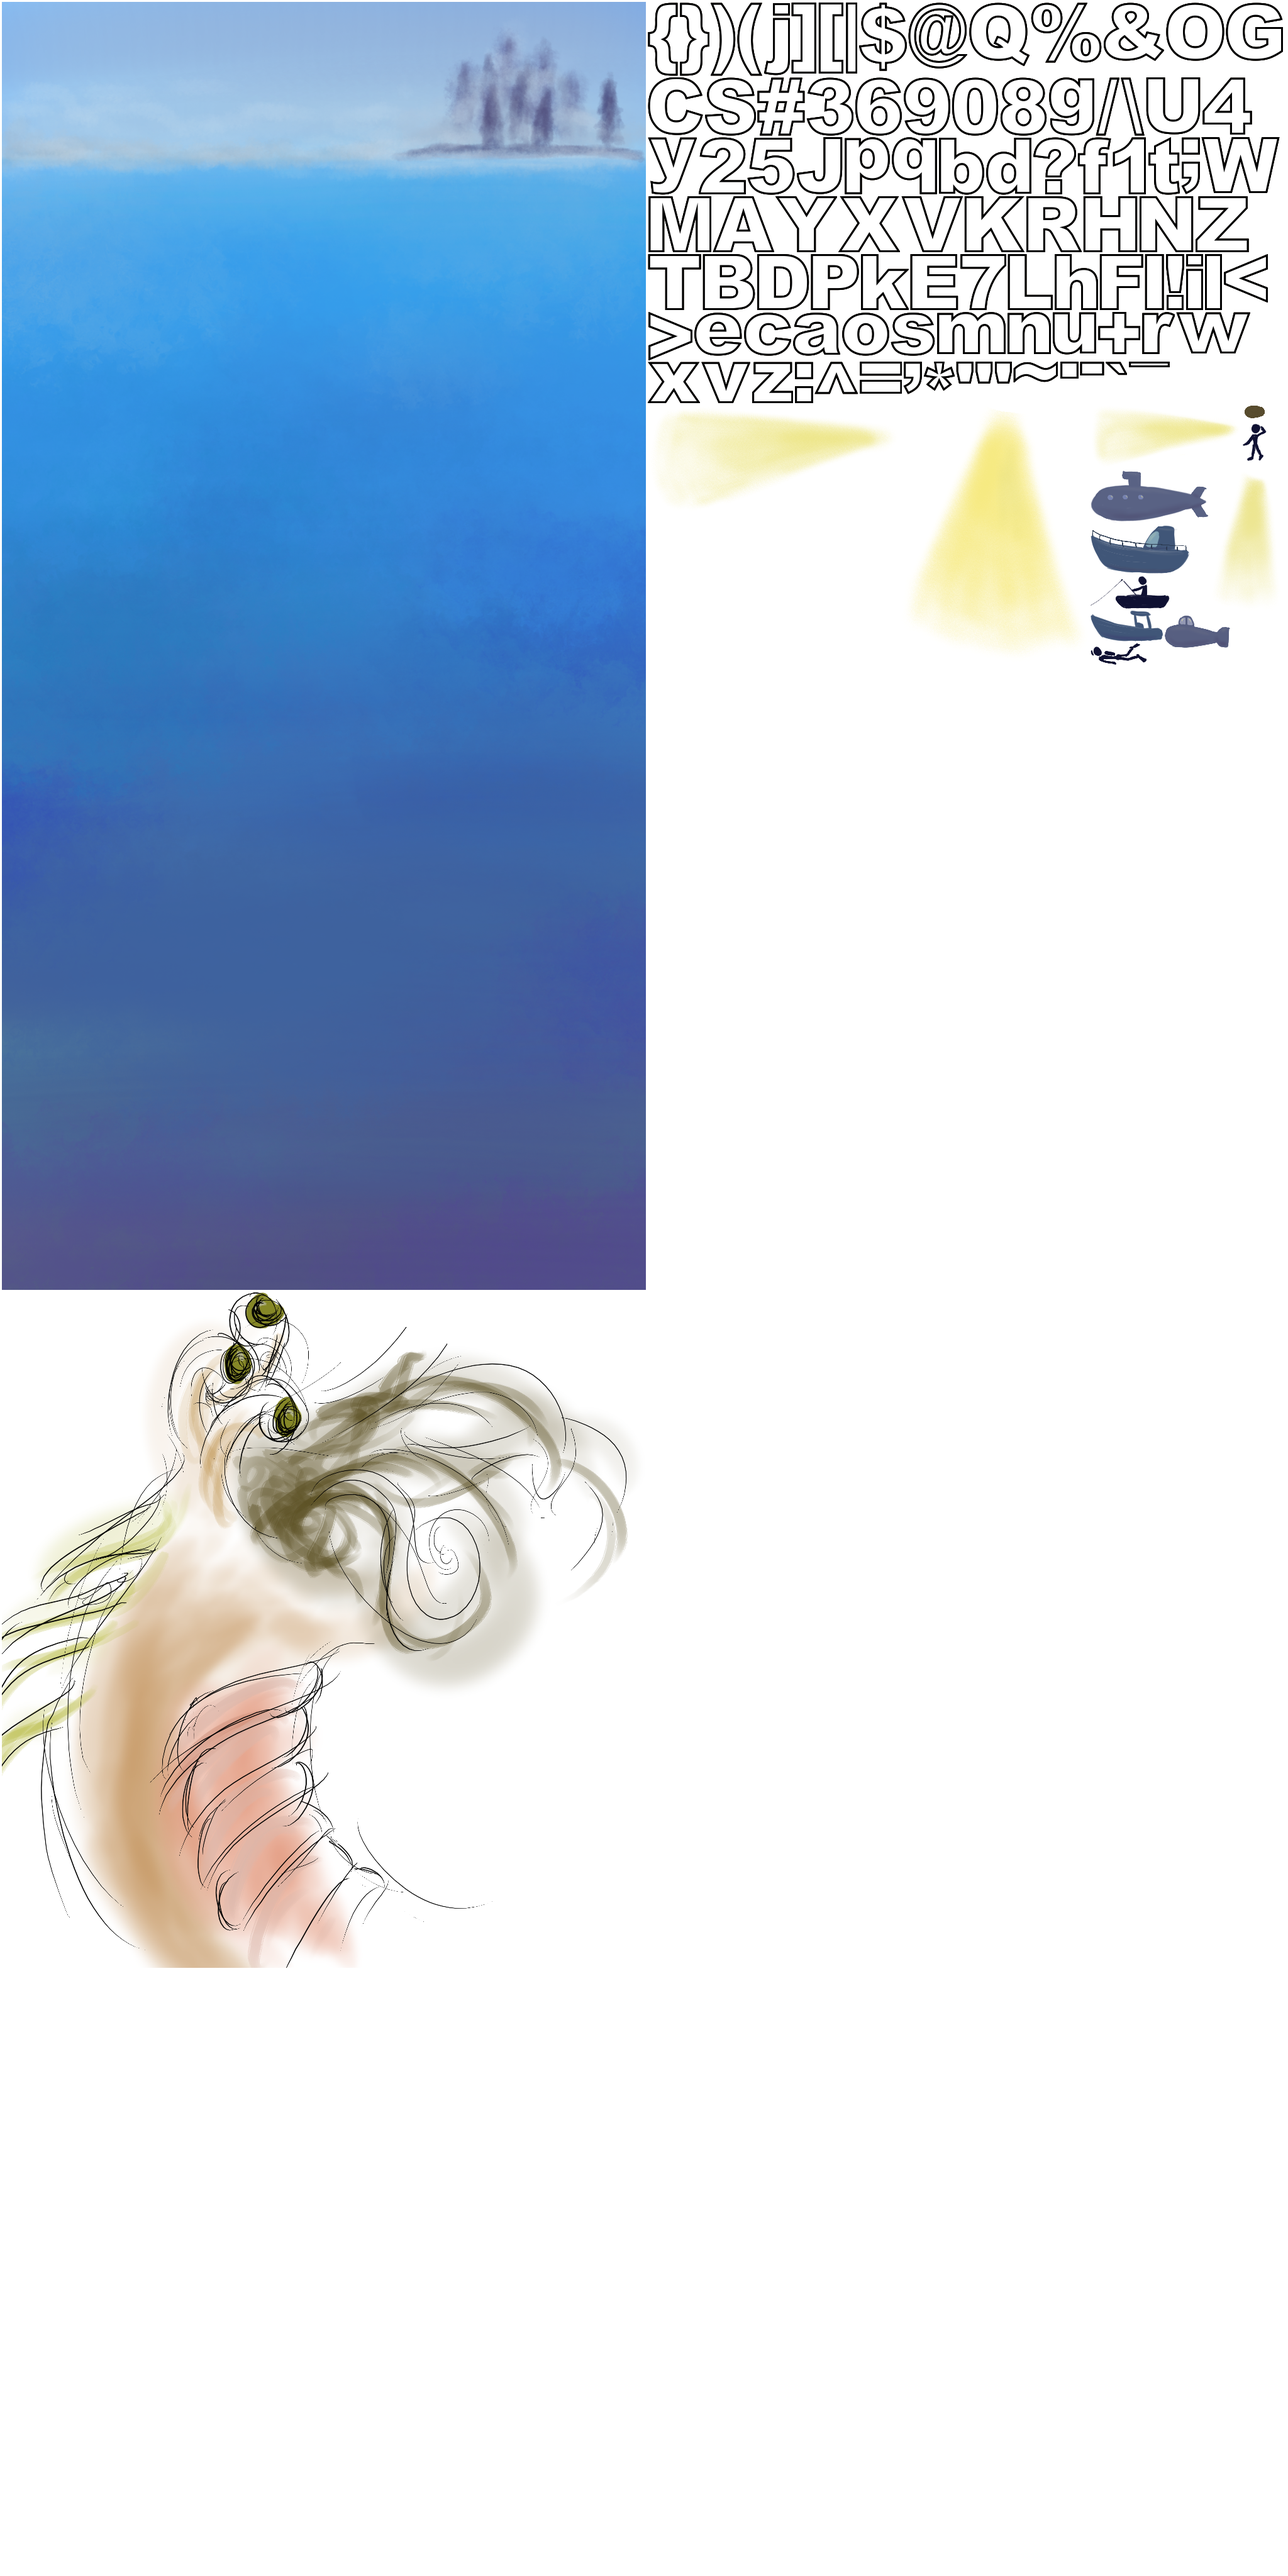
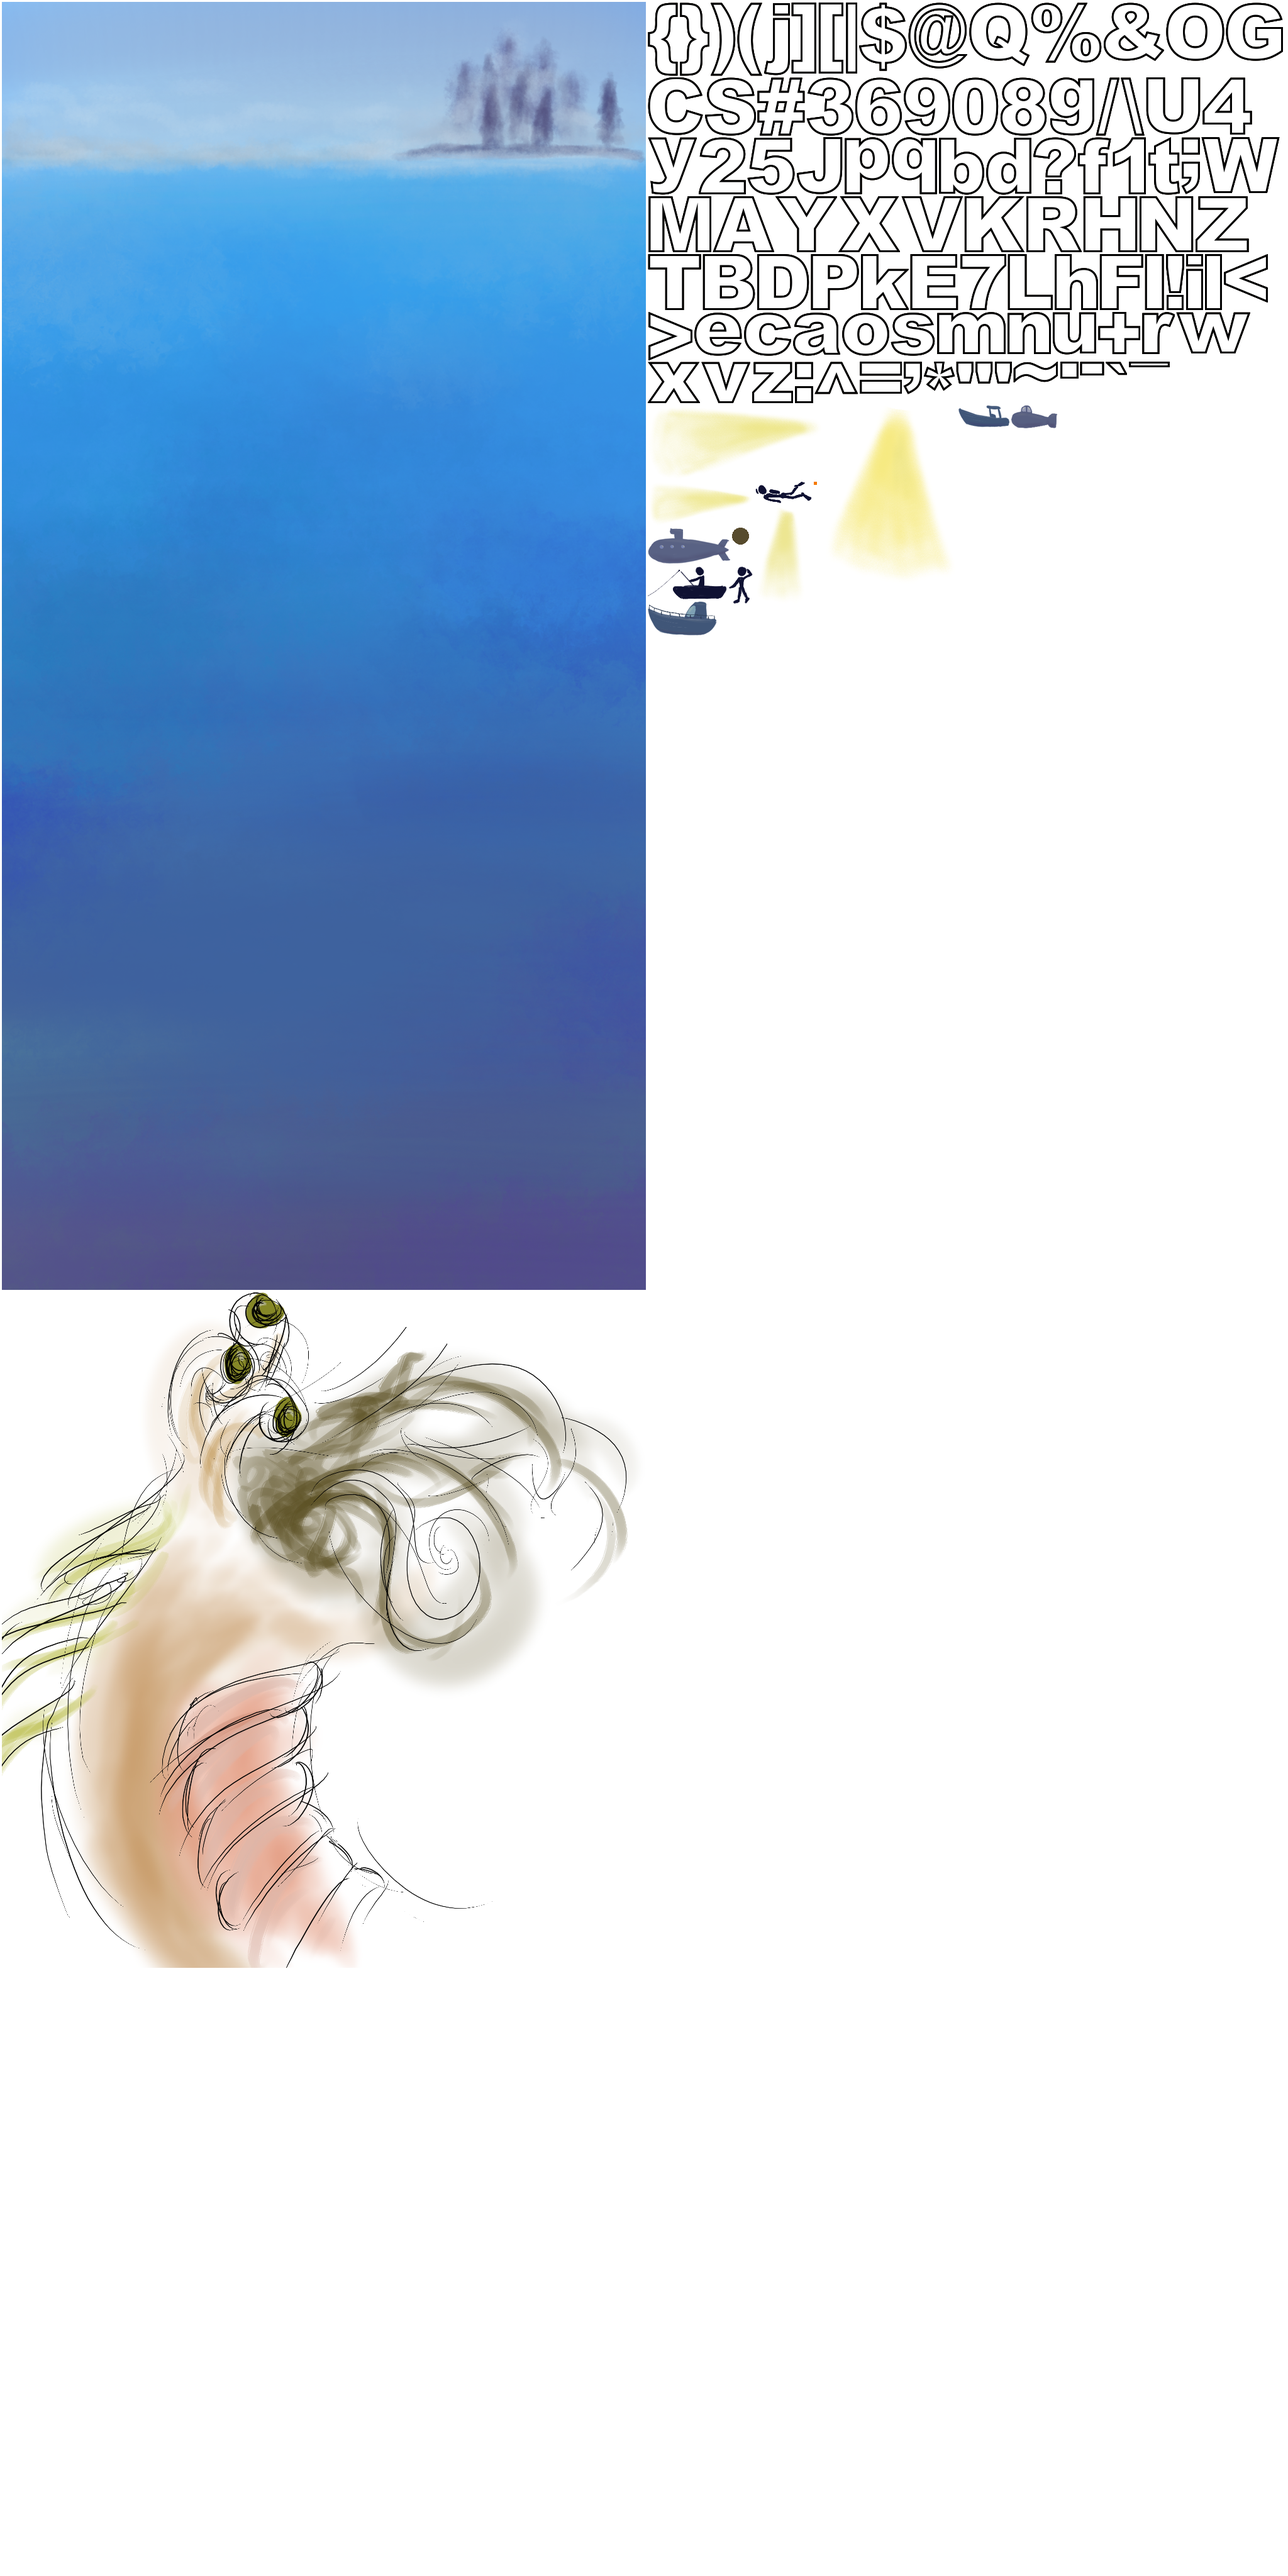
shrank enemies, got rid of scaling variable

Changed region(s): [[0.5, 0.1562, 1.0, 0.25]]

diff --git a/lake_monster_unity/Assets/Scripts/Actors/Enemy.cs b/lake_monster_unity/Assets/Scripts/Actors/Enemy.cs
@@ -16,20 +16,20 @@ public class Enemy : Actor
 		switch(name)
 		{
 			case "boat1":
-				sonar.y = -235f;
-				sonar.x = -20f;
+				sonar.y = -165f;
+				sonar.x = -14f;
 				break;
 			case "boat2":
-				sonar.y = -130f;
-				sonar.x = -10f;
+				sonar.y = -91f;
+				sonar.x = -7f;
 				break;
 			case "sub1":
-				sonar.y = 5f;
-				sonar.x = -250f;
+				sonar.y = 4f;
+				sonar.x = -175f;
 				break;
 			case "sub2":
-				sonar.y = 5f;
-				sonar.x = -150f;
+				sonar.y = 4f;
+				sonar.x = -105f;
 				break;
 			default:
 				break;
